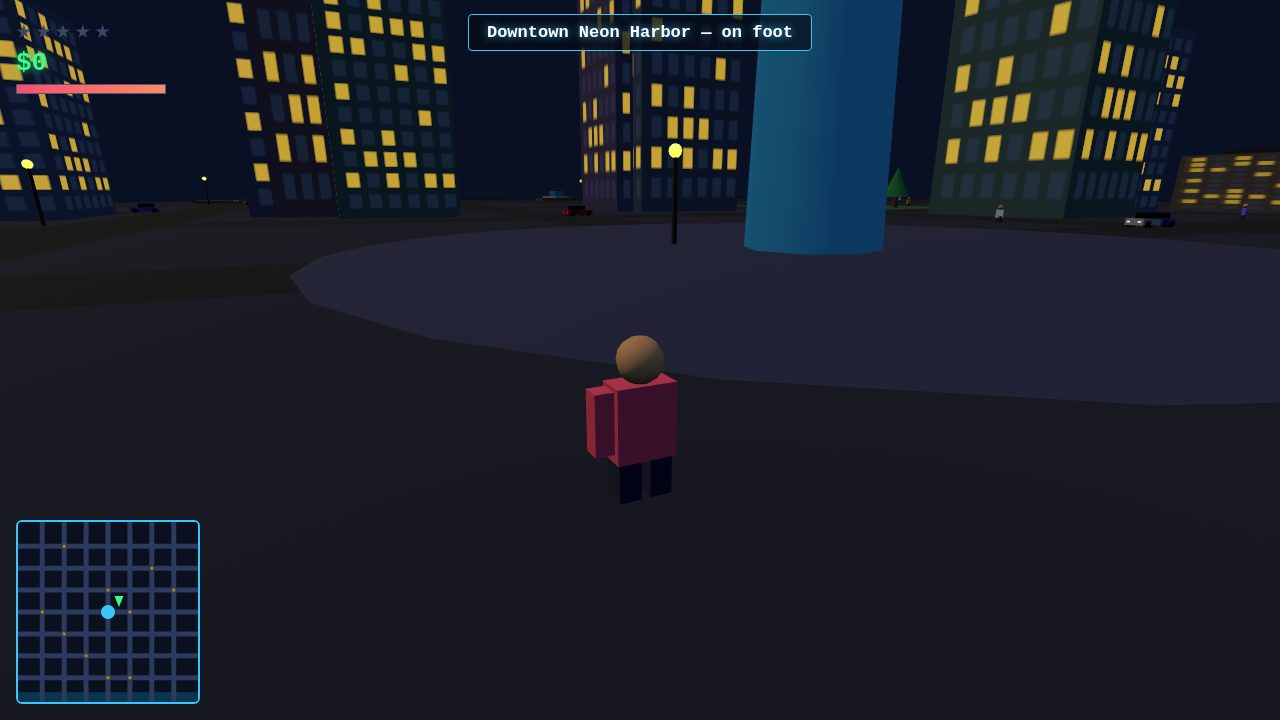
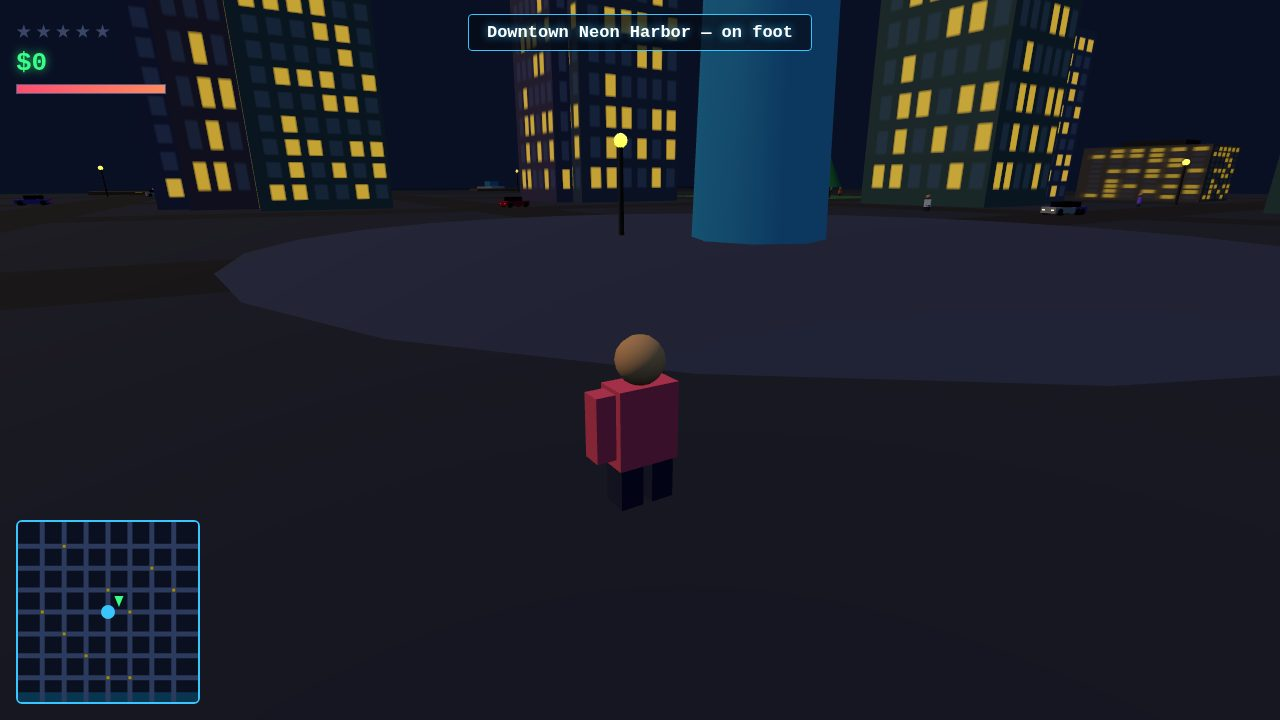
shot polish: hide driver in car, cop in chase frame, docks/street/spire framing, brighter lights

diff --git a/game/js/main.js b/game/js/main.js
@@ -25,8 +25,8 @@ const scene = new THREE.Scene();
 scene.background = new THREE.Color(0x0a1024);
 scene.fog = new THREE.Fog(0x070b16, 130, 400);
 const camera = new THREE.PerspectiveCamera(62, innerWidth / innerHeight, 0.1, 900);
-scene.add(new THREE.HemisphereLight(0x8fb8ff, 0x1a2028, 0.9));
-const sun = new THREE.DirectionalLight(0xffe0b3, 1.1);
+scene.add(new THREE.HemisphereLight(0x8fb8ff, 0x1a2028, 1.25));
+const sun = new THREE.DirectionalLight(0xffe0b3, 1.5);
 sun.position.set(120, 180, 60);
 scene.add(sun);
 
@@ -171,16 +171,25 @@ function applyShot() {
     G.driving.car.angle = 0;
     G.police.addHeat(78, G);
     G.police.update(0.1, G);
+    // pull one police car into frame, 18 m behind the getaway car
+    const pc = G.police.copCars[0];
+    if (pc) {
+      pc.pos.set(G.player.pos.x + 5, 0, G.player.pos.z - 18);
+      pc.heading = 0; pc.speed = 22;
+      pc.mesh.position.copy(pc.pos);
+    }
     G.hud.setObjective('Lose the cops — 3 stars and climbing');
   } else if (SHOT === 'street') {
-    G.player.pos.set(28, 0, -28);
+    G.player.pos.set(20, 0, 60);
+    G.player.heading = Math.PI; // face north: plaza + Spire + downtown in one frame
     G.hud.setObjective('Downtown Neon Harbor — on foot');
   } else if (SHOT === 'docks') {
-    G.player.pos.set(6, 0, 196);
+    G.player.pos.set(0, 0, 168);
+    G.player.heading = 0; // face south: pier + beacon + water ahead
     G.missions.start(G);
     G.hud.setObjective('Harbor Pickup: reach the pier beacon');
   } else if (SHOT === 'spire') {
-    G.player.pos.set(30, 0, 60);
+    G.player.pos.set(14, 0, 24);
     G.hud.setObjective('The Harbor Spire — heart of Neon Harbor');
   }
   G.player.group.position.copy(G.player.pos);
@@ -260,7 +269,8 @@ function frame() {
   if (G.player.health < 100) G.player.health = Math.min(100, G.player.health + 2 * dt);
   if (G.player.health <= 0) G.wasted();
   // camera + audio + HUD
-  G.cam.update(dt, G.player.pos, G.driving.inCar ? G.driving.car.angle : G.player.heading, G.driving.inCar, G.speedKmh);
+  if (SHOT === 'spire') G.cam.wideShot(new THREE.Vector3(0, 0, 0));
+  else G.cam.update(dt, G.player.pos, G.driving.inCar ? G.driving.car.angle : G.player.heading, G.driving.inCar, G.speedKmh);
   G.audio.setEngine(G.driving.inCar ? Math.abs(G.driving.car.speed) / CFG.carMaxSpeed : 0);
   G.hud.setCash(G.cash);
   G.hud.setHealth(G.player.health);

diff --git a/game/js/driving.js b/game/js/driving.js
@@ -32,6 +32,7 @@ export class Driving {
     this.scene.add(mesh);
     this.car = { mesh, pos: parkedCar.pos.clone(), angle: parkedCar.angle, speed: 0, color: parkedCar.color };
     this.inCar = true;
+    G.player.group.visible = false; // driver sits inside; the on-foot figure must not poke through the roof
     return this.car;
   }
 
@@ -47,6 +48,7 @@ export class Driving {
     G.parked.push(parked);
     this.car = null;
     this.inCar = false;
+    G.player.group.visible = true;
   }
 
   update(dt, input, G) {
